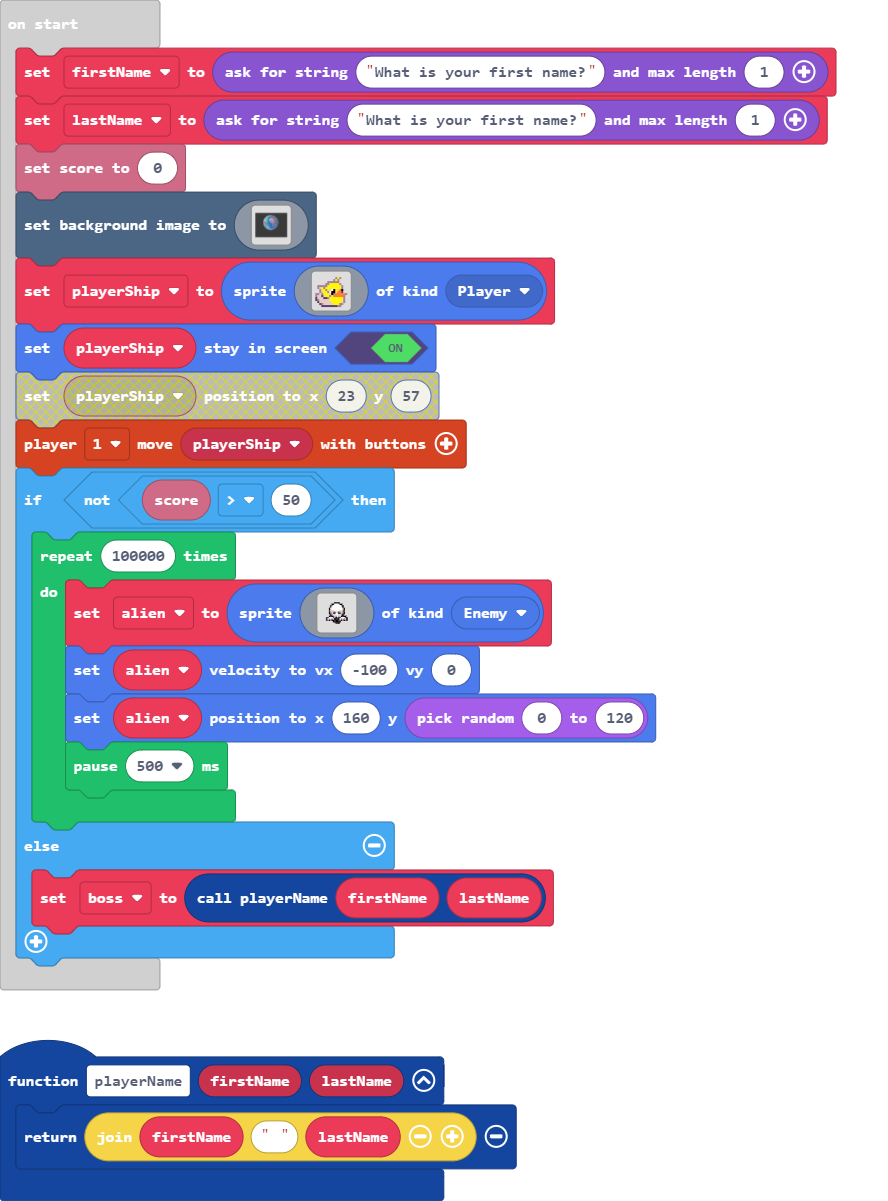
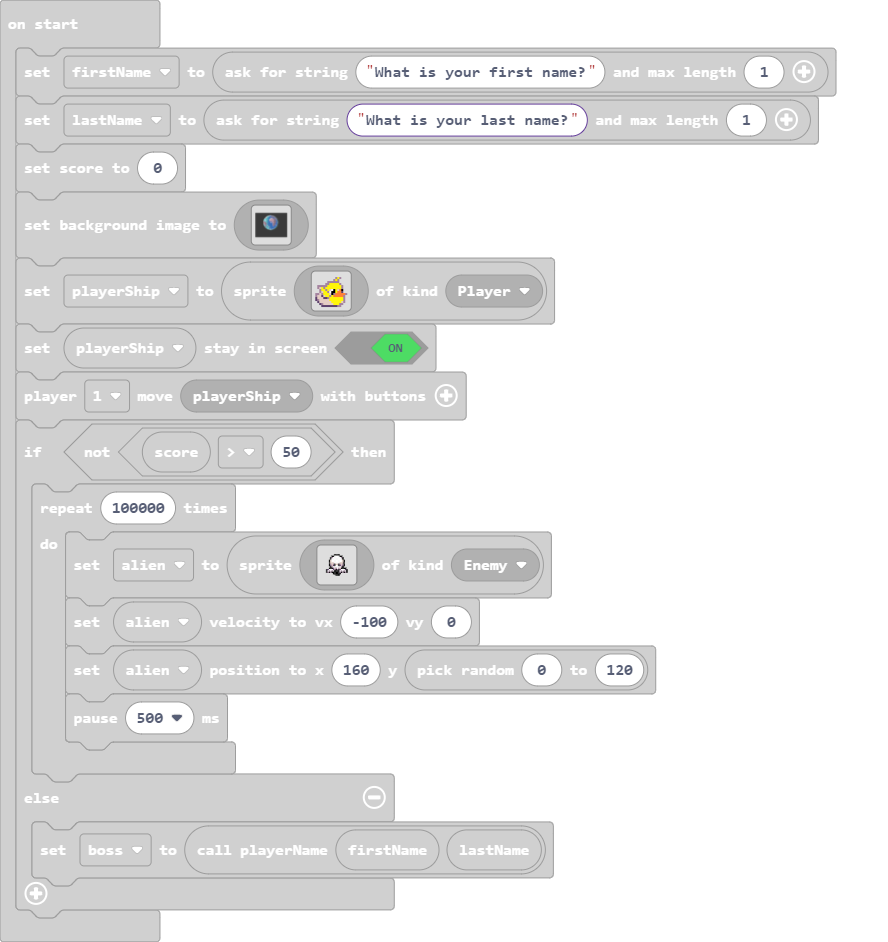
Update main.blocks, main.ts

diff --git a/main.ts b/main.ts
@@ -35,7 +35,7 @@ let boss = ""
 let alien: Sprite = null
 let playerShip: Sprite = null
 let firstName = game.askForString("What is your first name?", 1)
-let lastName = game.askForString("What is your first name?", 1)
+let lastName = game.askForString("What is your last name?", 1)
 info.setScore(0)
 scene.setBackgroundImage(img`
     ffffffffffffffffffffffffffffffffffffffffffffffffffffffffffffffffffffffffffffffffffffffffffffffffffffffffffffffffffffffffffffffffffffffffffffffffffffffffffffffff
